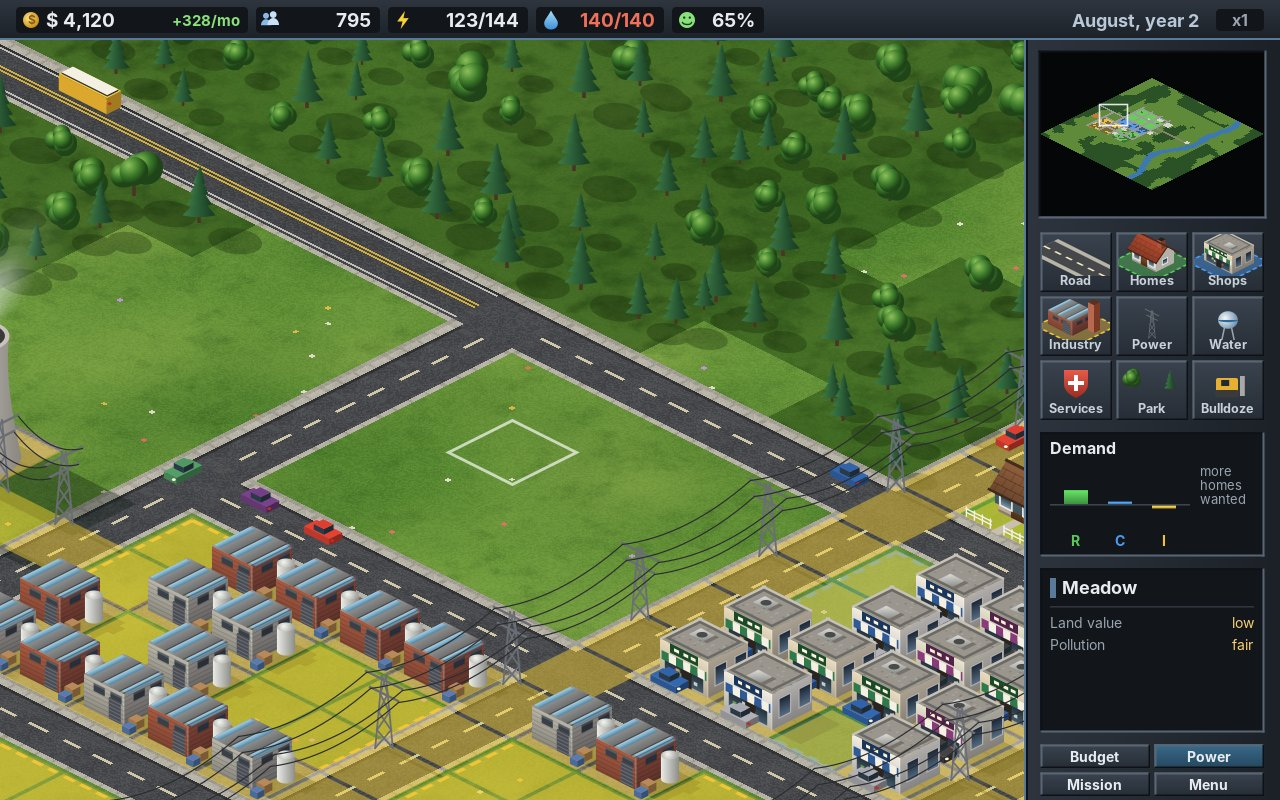
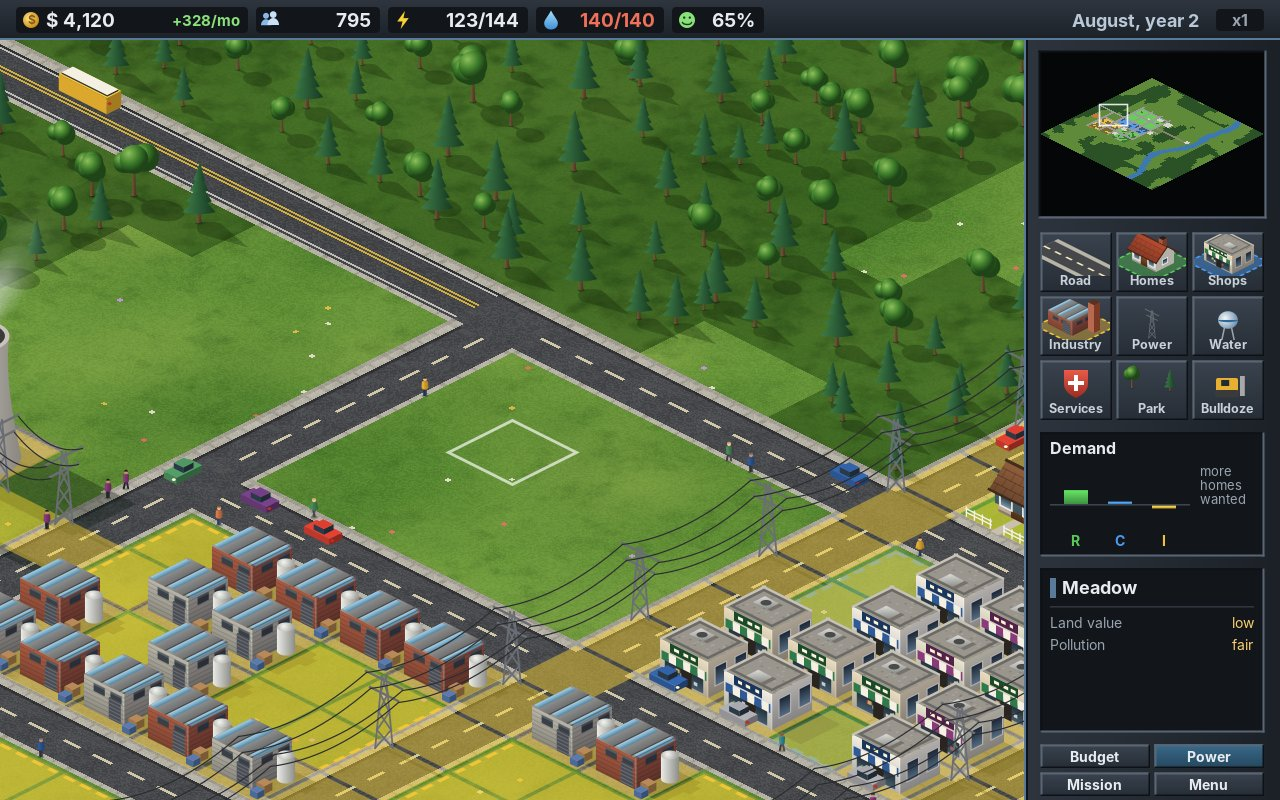
Chapter 33: people on the pavements, cars only at a street, chimneys and tree shadows; new screenshots, pin Town 3826dca
Claude-Session: https://claude.ai/code/session_01GzD486T9jFmNZwu9bANtNA

diff --git a/docs/handbook/chapters/33-town.md b/docs/handbook/chapters/33-town.md
@@ -5,7 +5,7 @@ Colony (chapter 32) was a game about goods: every plank was carried, every loaf 
 <figure markdown>
 ![The town close up](images/town/town.jpg){ width="400" }
 ![The same town from further away](images/town/overview.jpg){ width="400" }
-<figcaption>Mission 1 after a year and a half (left): row houses on lawns, the water tower, the school with its sports field, cars on both lanes. The wheel shows the same district from further away (right): the town hall on its plaza, the clinic, shops on blue lots.</figcaption>
+<figcaption>Mission 1 after a year and a half (left): row houses on lawns, the water tower, the school with its sports field, cars on both lanes and people on the pavements. The wheel shows the same district from further away (right): the town hall on its plaza, the clinic, shops on blue lots.</figcaption>
 </figure>
 
 It is also the first game in this handbook that is drawn **isometric**: the map is still a grid of square tiles, but the player looks at it from a corner and from above, so every tile becomes a diamond and every house shows two walls and its roof. That is a step for the engine more than for the game. A flat map is drawn tile after tile, row after row; an isometric one needs a projection that turns the world into a picture and the mouse back into the world, an order in which buildings of different sizes cover each other correctly, a minimap turned like the view, and a way to draw a big map that is quick enough for a large window.
@@ -85,7 +85,7 @@ The engine's `DepthSort` sorts on **footprints**, rectangles of the ground: A li
 --8<-- "amade-game-engine/src/test/java/eu/amadeos/gameengine/iso/DepthSortTest.java:test-sort"
 ```
 
-Town puts everything that stands into one sort each frame: the lots with their buildings, the plants and services, trees, pylons, cars, rubble and the zone signs. A building with several parts, a factory with its chimney, is one item, its parts ordered inside its own picture. Flat things, lawns, car parks, the yard of the coal plant, are not sorted at all: they are drawn with the ground, before everything that stands.
+Town puts everything that stands into one sort each frame: the lots with their buildings, the plants and services, trees, pylons, cars, people, rubble and the zone signs. A building with several parts, a factory with its chimney, is one item, its parts ordered inside its own picture. Flat things, lawns, car parks, the yard of the coal plant, are not sorted at all: they are drawn with the ground, before everything that stands.
 
 ```java title="amade-town-game · ui/game/TownPainter.java"
 --8<-- "amade-town-game/src/main/java/eu/amadeos/games/town/ui/game/TownPainter.java:things"
@@ -200,6 +200,20 @@ The rules only say that a truck was sent. The drawing sends a real one: a red tr
 --8<-- "amade-town-game/src/main/java/eu/amadeos/games/town/ui/game/Traffic.java:drive"
 ```
 
+People walk on the pavements, one for every 12 people, up to 120. A walker goes from corner to corner of the road tiles, a metre in from the edge: on along the pavement, round the corner of a block, to the touching corner of the next road tile, and now and then across the street. A corner is pavement unless the roads on both its sides and the road between them meet there; the highway has none.
+
+```java title="amade-town-game · ui/game/Walkers.java"
+--8<-- "amade-town-game/src/main/java/eu/amadeos/games/town/ui/game/Walkers.java:pavement"
+
+--8<-- "amade-town-game/src/main/java/eu/amadeos/games/town/ui/game/Walkers.java:next"
+```
+
+The test lets the computer build a town and then follows the walkers for twenty seconds: none of them may leave the street or step into the middle of the road.
+
+```java title="amade-town-game · WalkersTest.java"
+--8<-- "amade-town-game/src/test/java/eu/amadeos/games/town/ui/game/WalkersTest.java:test-walkers"
+```
+
 <figure markdown>
 ![A fire in the shops](images/town/fire.jpg){ width="400" }
 ![Zoning homes](images/town/zoning.jpg){ width="400" }
@@ -268,7 +282,7 @@ The ground is computed pixel by pixel, as in Sands and Colony, but here every ti
 --8<-- "amade-town-game/src/main/java/eu/amadeos/games/town/ui/game/Pictures.java:floor"
 ```
 
-On top come the roads, one picture for each combination of neighbours (16 for streets, 16 for the highway), river banks and corners of pavement. All shadows are one path, filled once under the ground transform, so where two shadows overlap the ground is not darker.
+On top come the roads, one picture for each combination of neighbours (16 for streets, 16 for the highway), river banks and corners of pavement. All shadows are one path, filled once under the ground transform, so where two shadows overlap the ground is not darker. A tree's shadow has its shape: the trunk's from the foot along +x, then a round crown's, or for a conifer a shadow that narrows to the point of its tip.
 
 ```java title="amade-town-game · ui/game/TownPainter.java"
 --8<-- "amade-town-game/src/main/java/eu/amadeos/games/town/ui/game/TownPainter.java:shadows"
@@ -292,7 +306,9 @@ The layer puts the view at whole screen pixels, so the rest of the town is drawn
 
 ### Lots and buildings
 
-Every lot has four looks for each level of each zone, chosen by its tile so a street is not a row of copies: cottages and row houses with hedges, apartment blocks; a corner shop, shops with flats above them, offices and a glass tower; workshops with tanks, a brick factory with its chimney, a works with a banded stack. All of them are drawn from boxes, gabled roofs, windows and awnings through the projection's transforms.
+Every lot has four looks for each level of each zone, chosen by its tile so a street is not a row of copies: cottages and row houses with hedges, apartment blocks; a corner shop, shops with flats above them, offices and a glass tower; workshops with tanks, a brick factory with its chimney, a works with a banded stack. All of them are drawn from boxes, gabled roofs, windows and awnings through the projection's transforms. The order inside a picture matters as much as between pictures: a chimney stands on the far slope of its roof, so it is drawn before the near slope, which hides its foot, and its top again after the ridge's line.
+
+A lot's front faces +y, but its street may run along any side. A car parked in the garden, or a lorry in the yard, would then stand behind a fence or between two houses with no way out. So the lots that park one are drawn twice, with the car and a drive through a gap in the fence, and without, and the painter takes the first only where a road runs along the front.
 
 ```java title="amade-town-game · ui/game/Lots.java"
 --8<-- "amade-town-game/src/main/java/eu/amadeos/games/town/ui/game/Lots.java:home"
